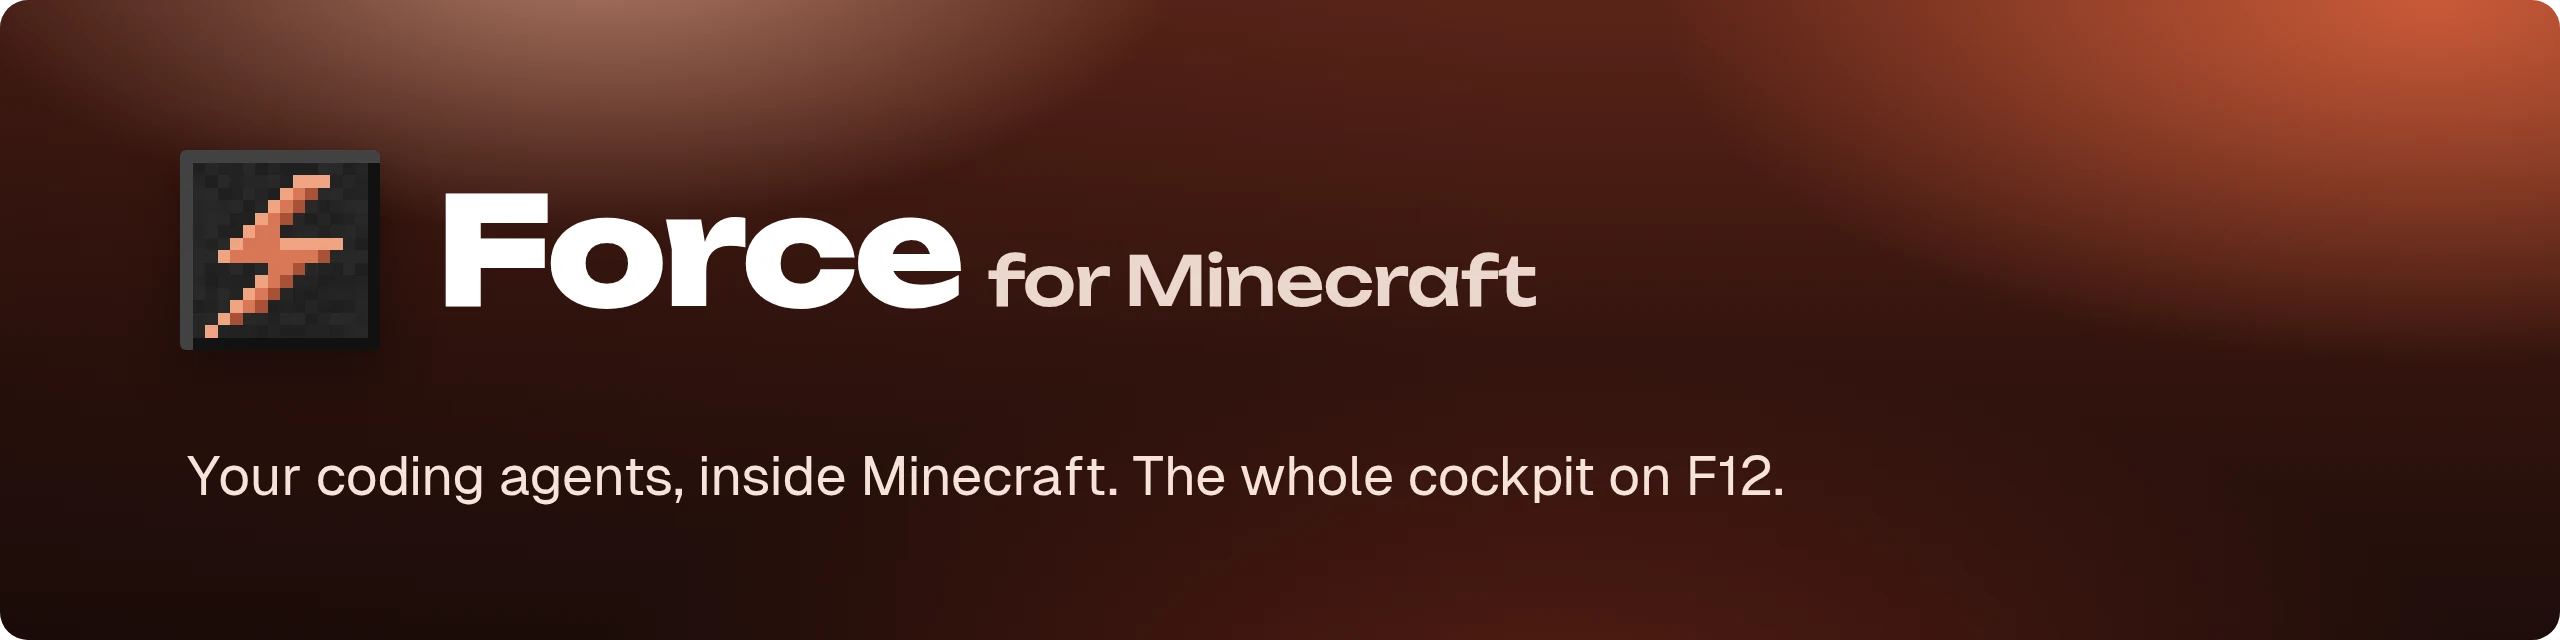
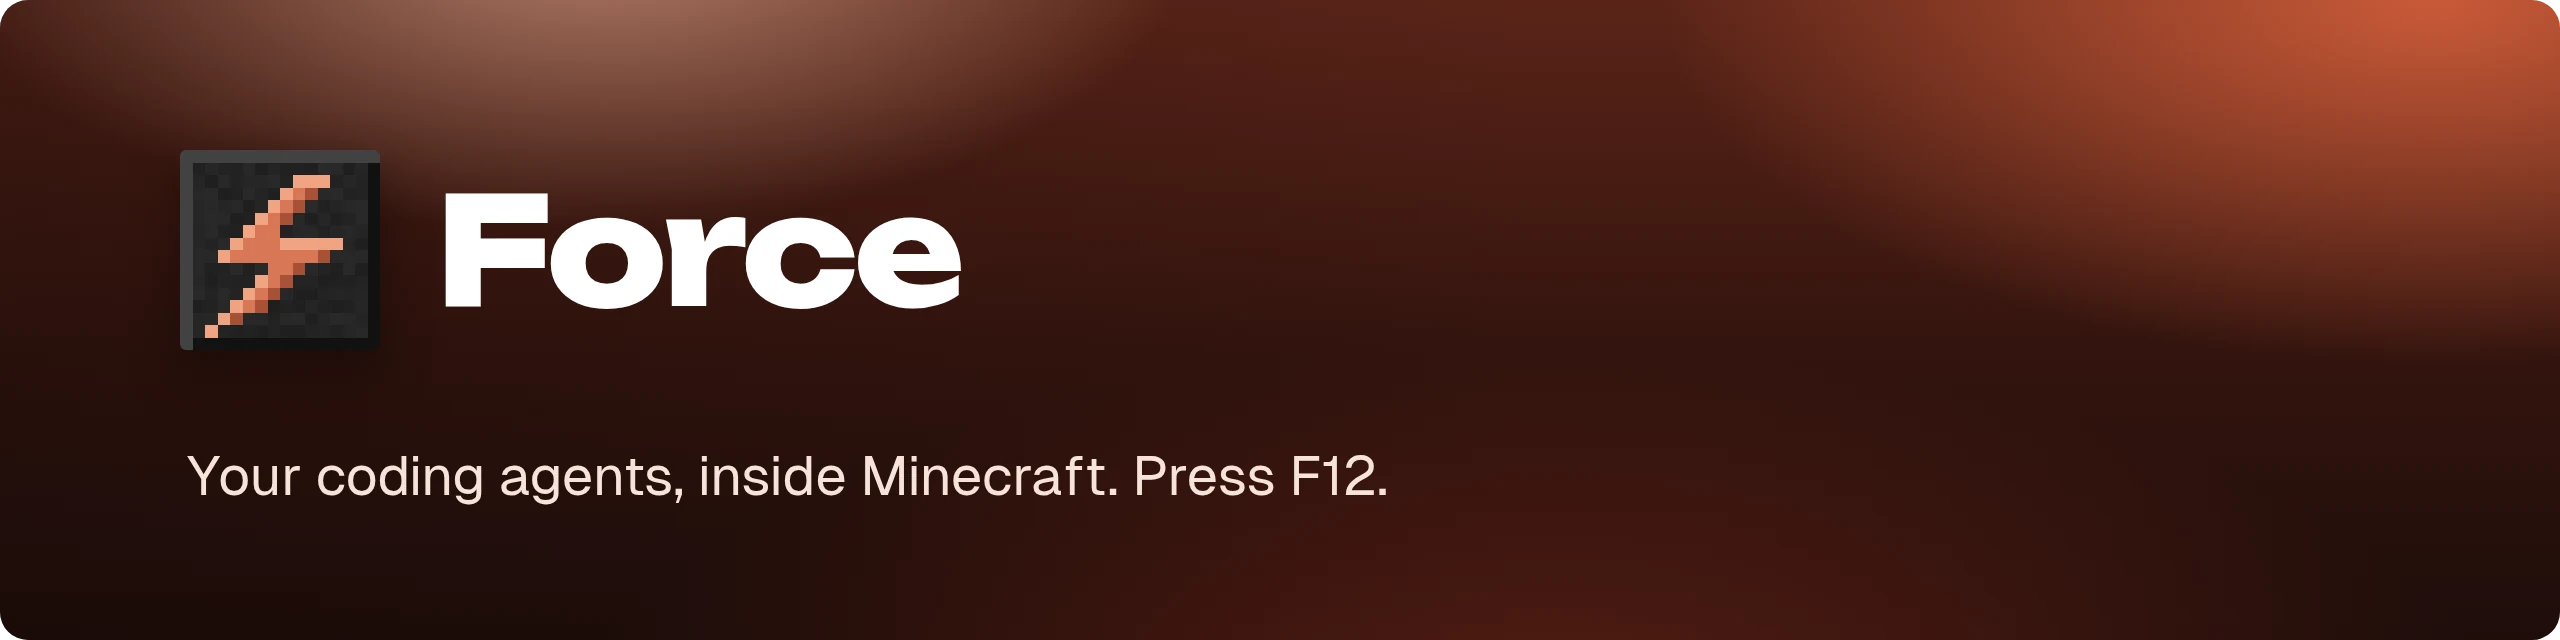
docs: the mod is called Force; the README's pictures with the maintainer's skin
- Name Force everywhere (banner, release and Modrinth version titles); one coherent summary in
  the mod, the repository and for Modrinth
- The game tests' offline player wears the README skin (a mixin in the test mod only), and the
  game-screen picture shows the player from the front with the list beside them

Changed region(s): [[0.375, 0.375, 0.5938, 0.5], [0.4375, 0.6875, 0.6875, 0.7812]]

diff --git a/src/gametest/java/cc/useforce/mc/gametest/DefaultSkinMixin.java b/src/gametest/java/cc/useforce/mc/gametest/DefaultSkinMixin.java
@@ -1,0 +1,27 @@
+package cc.useforce.mc.gametest;
+
+import net.minecraft.client.resources.DefaultPlayerSkin;
+import net.minecraft.core.ClientAsset;
+import net.minecraft.resources.Identifier;
+import net.minecraft.world.entity.player.PlayerModelType;
+import net.minecraft.world.entity.player.PlayerSkin;
+import org.spongepowered.asm.mixin.Mixin;
+import org.spongepowered.asm.mixin.injection.At;
+import org.spongepowered.asm.mixin.injection.Inject;
+import org.spongepowered.asm.mixin.injection.callback.CallbackInfoReturnable;
+
+import java.util.UUID;
+
+/** The game tests' offline player wears the maintainer's skin (slim arms) in the README's pictures. Tests only. */
+@Mixin(DefaultPlayerSkin.class)
+public abstract class DefaultSkinMixin {
+    private static final PlayerSkin README = PlayerSkin.insecure(
+            new ClientAsset.ResourceTexture(Identifier.fromNamespaceAndPath("force_mc_gametest", "entity/player/readme")),
+            null, null, PlayerModelType.SLIM);
+
+    @Inject(method = "get(Ljava/util/UUID;)Lnet/minecraft/world/entity/player/PlayerSkin;", at = @At("HEAD"),
+            cancellable = true)
+    private static void force_mc$readmeSkin(UUID id, CallbackInfoReturnable<PlayerSkin> cir) {
+        cir.setReturnValue(README);
+    }
+}

diff --git a/src/gametest/java/cc/useforce/mc/ConsoleGameTest.java b/src/gametest/java/cc/useforce/mc/ConsoleGameTest.java
@@ -122,8 +122,11 @@ public class ConsoleGameTest implements FabricClientGameTest {
 
         ctx.getInput().pressKey(InputConstants.KEY_F12);
         ctx.waitFor(mc -> mc.gui.screen() == null, 20 * 5);
+        // seen from the front, for the README: the player and the list beside them
+        ctx.runOnClient(mc -> mc.options.setCameraType(net.minecraft.client.CameraType.THIRD_PERSON_FRONT));
         ctx.waitTicks(10);
         ctx.takeScreenshot("7-game-screen-active-only");
+        ctx.runOnClient(mc -> mc.options.setCameraType(net.minecraft.client.CameraType.FIRST_PERSON));
     }
 
     /** The settings (Mod Menu's Configure, or a key): see-through glass, padding, the list elsewhere. */

diff --git a/README.md b/README.md
@@ -1,5 +1,5 @@
 <p align="center">
-  <a href="https://useforce.cc"><img src=".github/assets/banner.webp" alt="Force for Minecraft: your coding agents, inside Minecraft" width="100%"></a>
+  <a href="https://useforce.cc"><img src=".github/assets/banner.webp" alt="Force: your coding agents, inside Minecraft" width="100%"></a>
 </p>
 
 <p align="center">
@@ -62,7 +62,7 @@ you installed: nothing is sent anywhere else.
   key can be a combination, set in Minecraft's own Controls.
 
 <p align="center">
-  <img src=".github/assets/list.webp" alt="The game screen with Force's list in the corner: one session, web, working" width="49%">
+  <img src=".github/assets/list.webp" alt="A player on the game screen, Force's list beside them: one session, web, working" width="49%">
   <img src=".github/assets/settings.webp" alt="The mod's settings: background, padding, blur and text size for Force's view; background, position and length for the session list; toasts" width="49%">
 </p>
 

diff --git a/.github/modrinth.md b/.github/modrinth.md
@@ -1,4 +1,4 @@
-![Force for Minecraft](https://raw.githubusercontent.com/zalandemeter/force-minecraft/main/.github/assets/banner.webp)
+![Force](https://raw.githubusercontent.com/zalandemeter/force-minecraft/main/.github/assets/banner.webp)
 
 **Your coding agents, inside Minecraft.** Press F12 and [Force](https://useforce.cc), the code cockpit, opens over the
 game: every Claude Code, OpenCode and shell session you run, on this machine and your servers. Answer the one that
